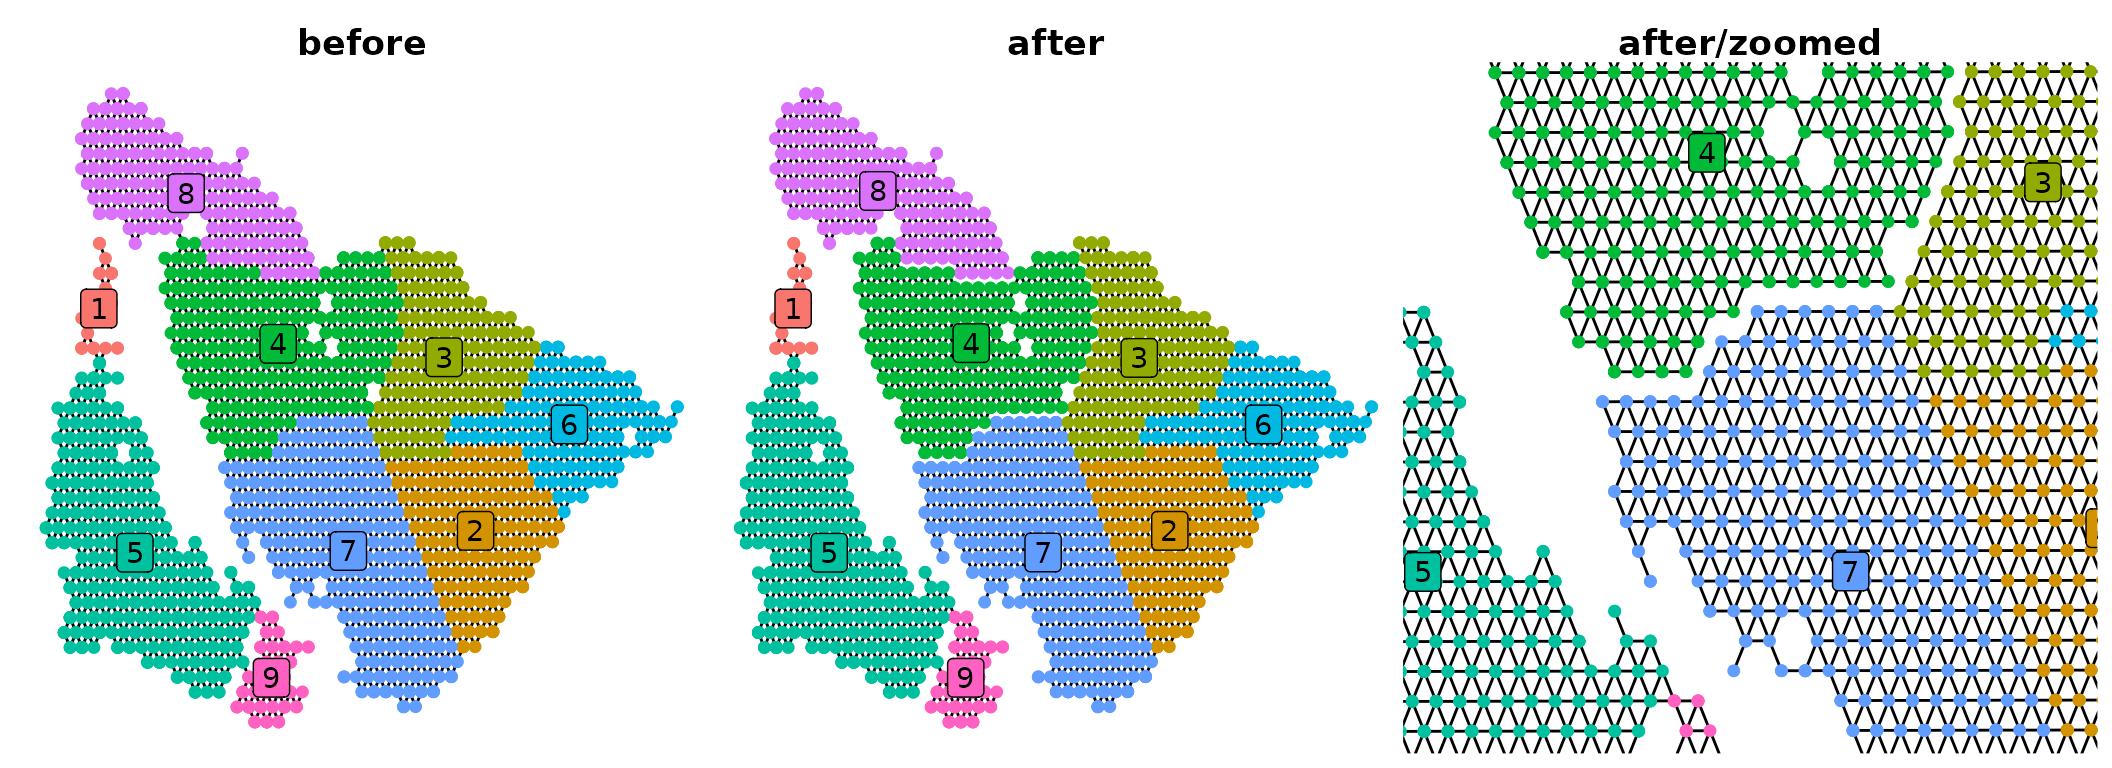
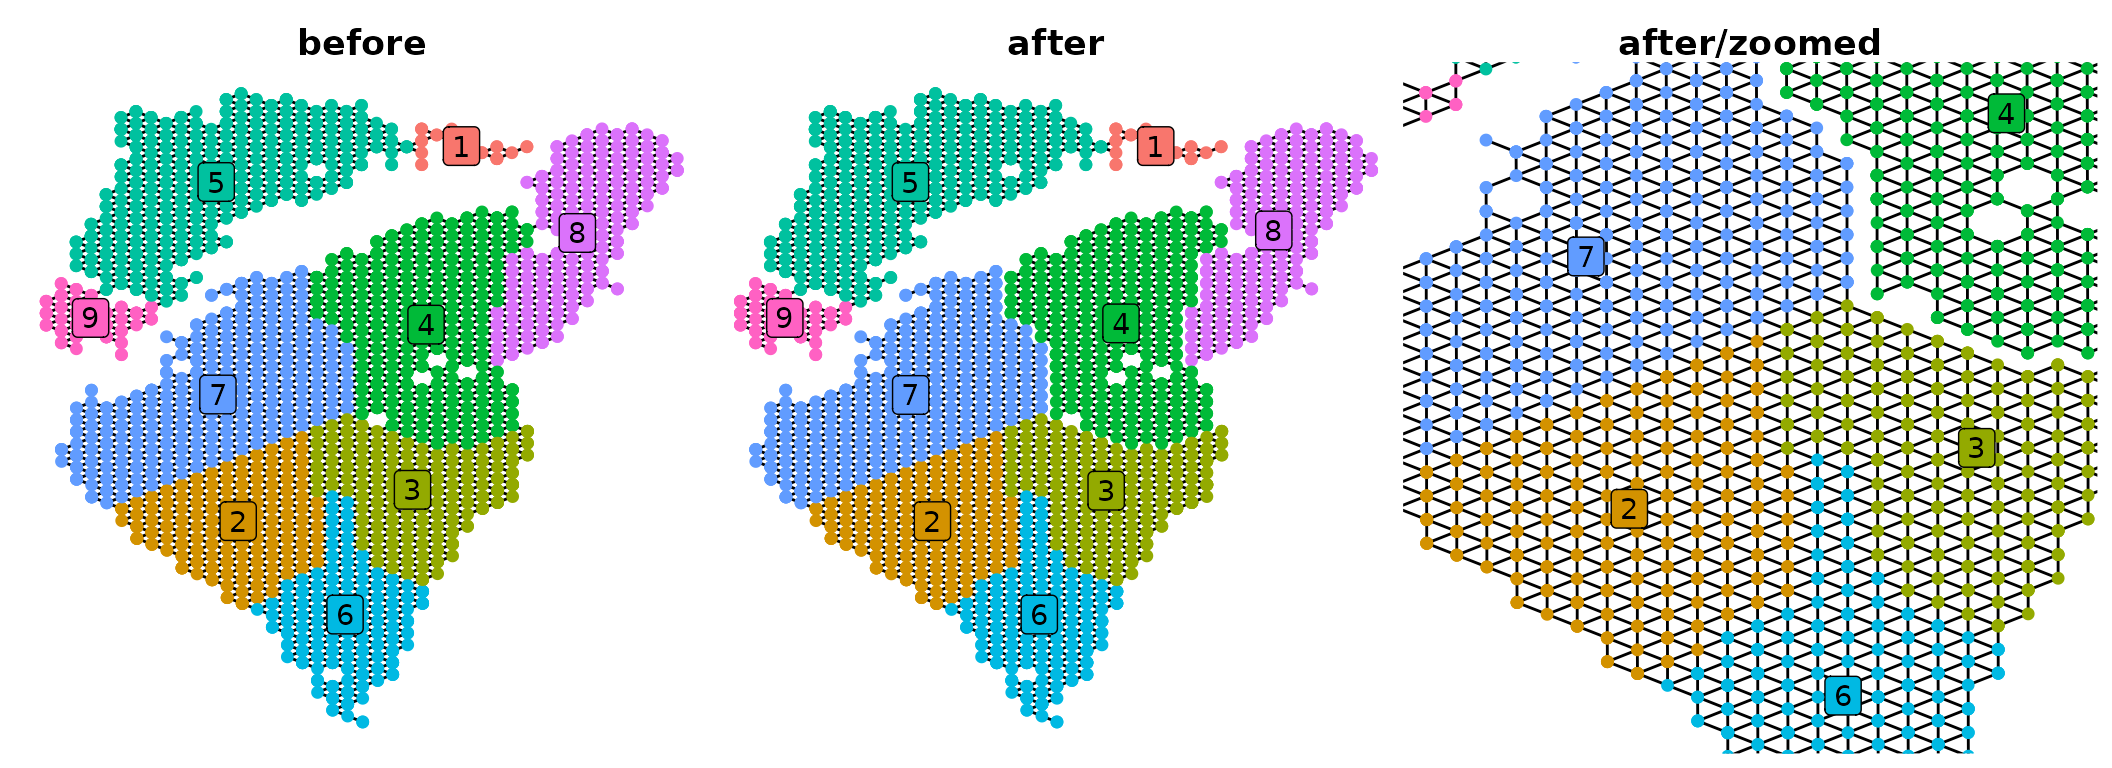
Deploying to gh-pages from @ Sanin-Lab/SpotGraphs@f8e47dc7b9f782cfb7d426b5192529d6c8909f34 🚀

diff --git a/articles/SpotGraphs.html b/articles/SpotGraphs.html
@@ -137,9 +137,9 @@ the spots on our slide.</p>
 <span></span>
 <span><span class="va">ig</span> <span class="op">=</span> <span class="fu"><a href="../reference/SpotGraph.html">SpotGraph</a></span><span class="op">(</span>coord <span class="op">=</span> <span class="va">coord</span><span class="op">)</span></span>
 <span><span class="va">ig</span></span>
-<span><span class="co">#&gt; IGRAPH fa2bcf6 UN-- 1185 3189 -- </span></span>
+<span><span class="co">#&gt; IGRAPH 0602fc2 UN-- 1185 3189 -- </span></span>
 <span><span class="co">#&gt; + attr: name (v/c), coord_x (v/n), coord_y (v/n), is_boundary (v/l)</span></span>
-<span><span class="co">#&gt; + edges from fa2bcf6 (vertex names):</span></span>
+<span><span class="co">#&gt; + edges from 0602fc2 (vertex names):</span></span>
 <span><span class="co">#&gt;  [1] 1 --175  1 --522  1 --562  1 --718  1 --983  1 --1073 2 --86   2 --1130</span></span>
 <span><span class="co">#&gt;  [9] 3 --31   3 --326  3 --358  3 --680  3 --696  3 --1168 4 --37   4 --38  </span></span>
 <span><span class="co">#&gt; [17] 4 --128  4 --216  4 --691  4 --1109 5 --473  5 --734  5 --799  5 --807 </span></span>
@@ -261,7 +261,7 @@ edges between two groups of spots.</p>
 <div class="sourceCode" id="cb10"><pre class="downlit sourceCode r">
 <code class="sourceCode R"><span><span class="co"># Create igraph object</span></span>
 <span><span class="va">coord</span> <span class="op">=</span> <span class="fu"><a href="https://satijalab.github.io/seurat-object/reference/GetTissueCoordinates.html" class="external-link">GetTissueCoordinates</a></span><span class="op">(</span><span class="va">scc_s1</span><span class="op">)</span></span>
-<span><span class="va">coord</span> <span class="op">=</span> <span class="va">coord</span><span class="op">[</span>,<span class="fu"><a href="https://rdrr.io/r/base/c.html" class="external-link">c</a></span><span class="op">(</span><span class="st">'x'</span>, <span class="st">'y'</span><span class="op">)</span><span class="op">]</span></span>
+<span><span class="va">coord</span> <span class="op">=</span> <span class="fu"><a href="https://rdrr.io/r/base/data.frame.html" class="external-link">data.frame</a></span><span class="op">(</span>x <span class="op">=</span> <span class="va">coord</span><span class="op">$</span><span class="va">y</span>, y <span class="op">=</span> <span class="op">-</span><span class="va">coord</span><span class="op">$</span><span class="va">x</span><span class="op">)</span></span>
 <span><span class="va">ig</span> <span class="op">=</span> <span class="fu"><a href="../reference/SpotGraph.html">SpotGraph</a></span><span class="op">(</span><span class="va">coord</span><span class="op">)</span></span>
 <span></span>
 <span><span class="co"># Clustering with igraph</span></span>

diff --git a/articles/SpotGraphs.md b/articles/SpotGraphs.md
@@ -70,9 +70,9 @@ head(coord)
 
 ig = SpotGraph(coord = coord)
 ig
-#> IGRAPH fa2bcf6 UN-- 1185 3189 -- 
+#> IGRAPH 0602fc2 UN-- 1185 3189 -- 
 #> + attr: name (v/c), coord_x (v/n), coord_y (v/n), is_boundary (v/l)
-#> + edges from fa2bcf6 (vertex names):
+#> + edges from 0602fc2 (vertex names):
 #>  [1] 1 --175  1 --522  1 --562  1 --718  1 --983  1 --1073 2 --86   2 --1130
 #>  [9] 3 --31   3 --326  3 --358  3 --680  3 --696  3 --1168 4 --37   4 --38  
 #> [17] 4 --128  4 --216  4 --691  4 --1109 5 --473  5 --734  5 --799  5 --807 
@@ -216,7 +216,7 @@ edges between two groups of spots.
 ``` r
 # Create igraph object
 coord = GetTissueCoordinates(scc_s1)
-coord = coord[,c('x', 'y')]
+coord = data.frame(x = coord$y, y = -coord$x)
 ig = SpotGraph(coord)
 
 # Clustering with igraph
